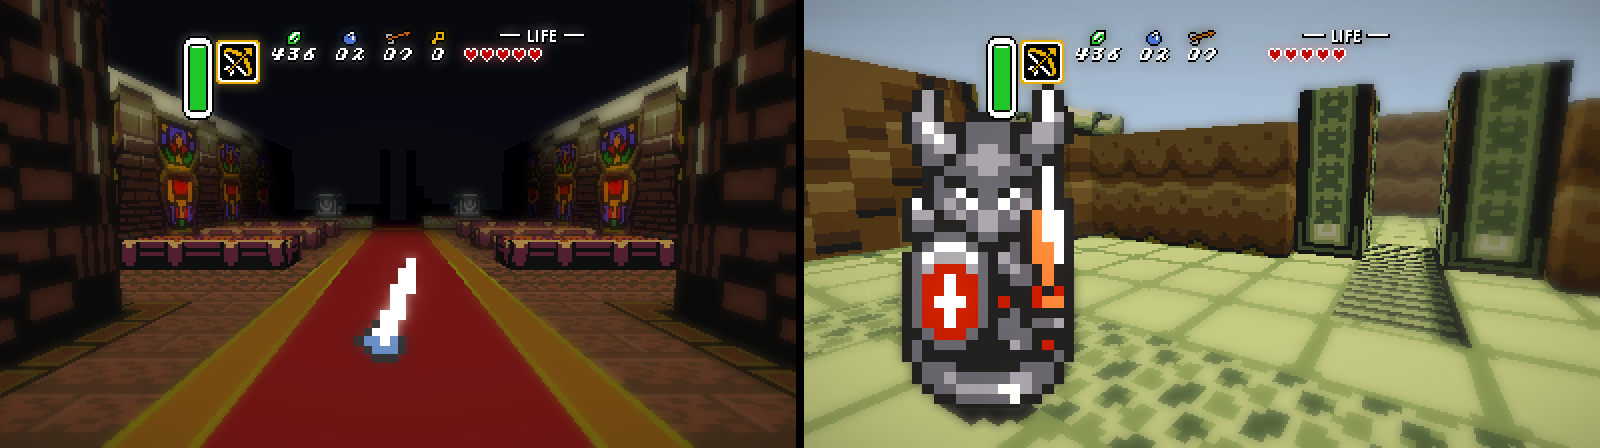
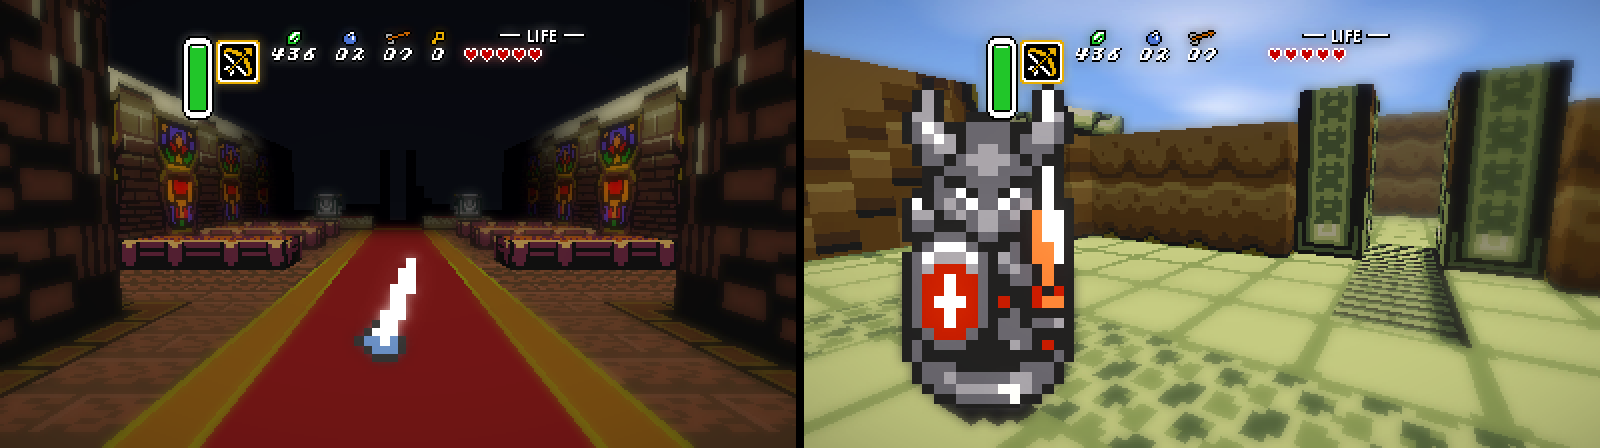
3D view: a sky outdoors
Where rays miss the ground outdoors (first person, turned cameras looking
above the horizon) the view showed flat mist. Now a sky rises from the fog
at the horizon (so the far ground still runs into it) to a brighter zenith:
blue over the Light World, violet-red over the Dark World, grey over Death
Mountain. A soft band of value-noise clouds drifts on a plane above, by
the pane's ticks and a little with the camera; on Death Mountain the
game's own cloud overlay (its first tilemap screen, decoded in phase A)
drifts there instead. One table lookup and a bilinear noise sample per
sky pixel, no shared mutable state on the worker rows. Indoors and the
oblique test camera are unchanged. README: one sentence, and the
first-person screenshot regenerated (only its sky changed).

Claude-Session: https://claude.ai/code/session_01KrREN423JtkdBDBTRQRweK

Changed region(s): [[0.5, 0.0, 1.0, 0.3125]]

diff --git a/src/hd3d.c b/src/hd3d.c
@@ -82,6 +82,7 @@ typedef struct Pane {
   uint8 *layer2d;            // its layers (2: the HUD)
   uint32 *last;
   uint8 *overlay;            // the outdoor BG1 overlay as palette indices (allocated when one shows)
+  uint8 *clouds;             // its first 256x256 screen, unscrolled (Death Mountain's sky)
   Hd3dSpriteFrame *sf;
   // This frame, from phase A for phase B.
   bool pending;
@@ -111,6 +112,9 @@ typedef struct Pane {
   uint8 ov_mode;             // the outdoor overlay: 0 none, 1 above everything, 2 below (the background)
   bool ov_sub, ov_half, ov_obj;
   uint32 ov_fixed;           // the fixed color (where the overlay is see-through)
+  bool sky;                  // outdoors: a sky where the ground ends
+  uint32 sky_mid, sky_top, cloud_rgb;  // (lit; the horizon is the fog)
+  int cloud_x, cloud_y;      // Death Mountain: the overlay's scroll (its drift)
 } Pane;
 
 static Pane g_panes[kHd3dMaxPanes];
@@ -277,7 +281,9 @@ static bool AllocPane(Pane *p, bool overlay) {
     p->sf = (Hd3dSpriteFrame *)calloc(1, sizeof(Hd3dSpriteFrame));
   if (overlay && !p->overlay)
     p->overlay = (uint8 *)malloc(kPicPixels);
-  return p->pic2d && p->layer2d && p->last && p->sf && (!overlay || p->overlay);
+  if (overlay && !p->clouds)
+    p->clouds = (uint8 *)malloc(256 * 256);
+  return p->pic2d && p->layer2d && p->last && p->sf && (!overlay || (p->overlay && p->clouds));
 }
 
 // ---- Phase A: reading the world ----
@@ -359,19 +365,19 @@ static void FrameHook(struct Ppu *ppu) {
     Hd3dSprites_Capture(ppu, g_capture);
 }
 
-// The outdoor BG1 overlay (fog, rain, canopy, clouds) exactly where the 2D
-// picture has it: it is anchored to the screen, not the world.
-static void DecodeOverlay(const Ppu *ppu, uint8 *out, int w, int h) {
+// The outdoor BG1 overlay (fog, rain, canopy, clouds) from tilemap pixel
+// (x0, y0) on: at its scroll it is exactly where the 2D picture has it,
+// anchored to the screen, not the world.
+static void DecodeOverlay(const Ppu *ppu, uint8 *out, int pitch, int x0, int y0, int w, int h) {
   const BgLayer *bg = &ppu->bgLayer[0];
-  int e = ppu->extraLeftRight;
   for (int r = 0; r < h; r++) {
-    uint8 *dst = out + r * kPicW;
-    int y = bg->vScroll + r + 1;
+    uint8 *dst = out + r * pitch;
+    int y = y0 + r;
     int sc = bg->tilemapAdr + (((y >> 3) & 0x1f) << 5);
     if ((y & 0x100) && bg->tilemapHigher)
       sc += bg->tilemapWider ? 0x800 : 0x400;
     for (int d = 0; d < w;) {
-      int x = (bg->hScroll + d - e) & 0x1ff;
+      int x = (x0 + d) & 0x1ff;
       int half = (x >> 8 & 1) && bg->tilemapWider ? 0x400 : 0;
       uint16 tile = ppu->vram[(sc + half + ((x >> 3) & 0x1f)) & 0x7fff];
       int row = tile & 0x8000 ? 7 - (y & 7) : y & 7;
@@ -460,12 +466,34 @@ static void ReadOverlay(Pane *p, const Ppu *ppu, uint8 mode) {
   p->ov_mode = mode;
   if (!mode)
     return;
-  DecodeOverlay(ppu, p->overlay, p->w, p->h);
+  const BgLayer *bg = &ppu->bgLayer[0];
+  DecodeOverlay(ppu, p->overlay, kPicW, bg->hScroll - ppu->extraLeftRight, bg->vScroll + 1, p->w, p->h);
+  // (Under everything it is Death Mountain's clouds: its sky's too.)
+  if (mode == 2)
+    DecodeOverlay(ppu, p->clouds, 256, 0, 0, 256, 256);
+  p->cloud_x = bg->hScroll, p->cloud_y = bg->vScroll;
   p->ov_sub = ppu->subtractColor;
   p->ov_half = ppu->halfColor;
   p->ov_obj = (ppu->mathEnabled & 0x10) != 0;
   uint16 fixed = (uint16)(ppu->fixedColorR | ppu->fixedColorG << 5 | ppu->fixedColorB << 10);
   p->ov_fixed = Rgb555(fixed, ppu->brightness & 15);
+}
+
+// The sky outdoors, from the fog at the horizon up: blue over the Light
+// World, violet-red over the Dark World, grey over Death Mountain (whose
+// own clouds drift in it). Indoors the fog goes on (a dark void).
+static void ReadSky(Pane *p, const Ppu *ppu) {
+  p->sky = !player_is_indoors;
+  int br = ppu->brightness & 15;
+  uint32 mid, top, cloud;
+  if (p->ov_mode == 2)
+    mid = 0xa0a8b8, top = 0x707c94, cloud = 0xd8dce4;
+  else if (overworld_screen_index & 0x40)
+    mid = 0x9c5c7c, top = 0x482858, cloud = 0xe0b0c0;
+  else
+    mid = 0x88b4ec, top = 0x3c74d4, cloud = 0xf4f8fc;
+  p->sky_mid = ScaleRgb(mid, br, 15), p->sky_top = ScaleRgb(top, br, 15);
+  p->cloud_rgb = ScaleRgb(cloud, br, 15);
 }
 
 static void SmoothTo(float *v, float to, float dt, float tau, bool snap) {
@@ -607,6 +635,7 @@ static void ReadWorld(Pane *p, uint32 flags, int step, bool same_world, Hd3dScen
     p->bg_lut[i] = Rgb555(ppu->cgram[i], br);
   ReadLight(p, ppu, (int)p->tz);
   ReadOverlay(p, ppu, ov_mode);
+  ReadSky(p, ppu);
   uint8 m = main_module_index;
   if (m == 14)
     m = saved_module_for_menu;
@@ -637,17 +666,89 @@ static uint32 OverlayMath(const Pane *p, uint32 c, uint8 idx) {
   return (uint32)(r << 16 | g << 8 | b);
 }
 
+enum {
+  kSkySteps = 64,            // the sky's colors by the sine of the elevation
+  kNoiseSize = 64,           // the clouds' noise (tiles)
+};
+
 typedef struct BackgroundJob {
   const Pane *p;
   const R3dFrame *f;
-  float horizon, top;        // the sky: a little darker at the top, down to the horizon row
+  float horizon, top;        // indoors: a little darker at the top, down to the horizon row
   uint32 ground;             // the ground's color near the camera
+  uint32 sky[kSkySteps];     // outdoors: the sky, and how much cloud shows, by elevation
+  uint8 cloud[kSkySteps];
+  float cloud_u, cloud_v;    // where the clouds have drifted (noise texels)
 } BackgroundJob;
+
+static uint8 g_noise[kNoiseSize * kNoiseSize];
+
+static uint32 Hash32(uint32 x) {
+  x ^= x >> 16, x *= 0x7feb352d, x ^= x >> 15, x *= 0x846ca68b, x ^= x >> 16;
+  return x;
+}
+
+// Soft tiling value noise in three octaves: the clouds' shapes. Made once,
+// on the main thread, before any rows run.
+static void MakeNoise(void) {
+  static bool done;
+  if (done)
+    return;
+  done = true;
+  for (int y = 0; y < kNoiseSize; y++) {
+    for (int x = 0; x < kNoiseSize; x++) {
+      float v = 0.0f, amp = 0.55f;
+      for (int o = 0, cell = 16; o < 3; o++, cell >>= 1, amp *= 0.5f) {
+        int n = kNoiseSize / cell, cx = x / cell, cy = y / cell;
+        float fx = (float)(x % cell) / cell, fy = (float)(y % cell) / cell;
+        fx = fx * fx * (3.0f - 2.0f * fx), fy = fy * fy * (3.0f - 2.0f * fy);
+        float c[4];
+        for (int i = 0; i < 4; i++) {
+          uint32 h = Hash32((uint32)(((cy + (i >> 1)) % n) * 64 + (cx + (i & 1)) % n) + (uint32)o * 4096u);
+          c[i] = (float)(h & 0xffff) / 65535.0f;
+        }
+        v += amp * (c[0] + (c[1] - c[0]) * fx + (c[2] - c[0] + (c[3] - c[2] - c[1] + c[0]) * fx) * fy);
+      }
+      g_noise[y * kNoiseSize + x] = (uint8)(Clampf(v, 0.0f, 1.0f) * 255.0f);
+    }
+  }
+}
+
+// The sky along a ray going up (dz > 0): the color for its elevation, then
+// the clouds, on a plane above, so they shrink toward the horizon.
+static uint32 SkyAt(const BackgroundJob *j, float dx, float dy, float dz) {
+  float e = dz / sqrtf(dx * dx + dy * dy + dz * dz);
+  int i = (int)(e * (kSkySteps - 1) + 0.5f);
+  i = i < 0 ? 0 : i >= kSkySteps ? kSkySteps - 1 : i;
+  uint32 c = j->sky[i];
+  if (!j->cloud[i])
+    return c;
+  const Pane *p = j->p;
+  float s = 1.0f / dz;
+  if (p->ov_mode == 2) {
+    // Death Mountain: the game's own clouds, pixel for pixel.
+    int u = (int)(dx * s * 96.0f + 4096.0f) + p->cloud_x, v = (int)(dy * s * 96.0f + 4096.0f) + p->cloud_y;
+    uint8 idx = p->clouds[(v & 255) * 256 + (u & 255)];
+    return idx ? LerpRgb(c, OverlayMath(p, c, idx), j->cloud[i] * (1.0f / 255.0f)) : c;
+  }
+  // (8 bits of fraction, wrapped: bilinear on the tiling noise.)
+  int u = (int)((dx * s * 6.0f + j->cloud_u) * 256.0f), v = (int)((dy * s * 6.0f + j->cloud_v) * 256.0f);
+  int x0 = u >> 8 & (kNoiseSize - 1), y0 = v >> 8 & (kNoiseSize - 1), fx = u & 255, fy = v & 255;
+  int x1 = (x0 + 1) & (kNoiseSize - 1), y1 = (y0 + 1) & (kNoiseSize - 1);
+  const uint8 *r0 = g_noise + y0 * kNoiseSize, *r1 = g_noise + y1 * kNoiseSize;
+  int a = r0[x0] * 256 + (r0[x1] - r0[x0]) * fx, b = r1[x0] * 256 + (r1[x1] - r1[x0]) * fx;
+  int n = (a * 256 + (b - a) * fy) >> 16;
+  int k = (n - 108) * 3;  // (only the noise's peaks are clouds, with soft edges)
+  if (k <= 0)
+    return c;
+  k = (k > 255 ? 255 : k) * j->cloud[i] >> 8;
+  return LerpRgb(c, p->cloud_rgb, k * (1.0f / 256.0f));
+}
 
 // What shows where nothing is drawn. Below the horizon it is the ground: the
 // backdrop color (the game's own ground wherever a background tile is
 // see-through, as outdoors at Skull Woods), fogged as the ground there would
-// be. Above it, the fog, or in first person the sky.
+// be. Above it, outdoors, the sky; indoors the fog.
 static void BackgroundRows(int y0, int y1, void *ctx) {
   const BackgroundJob *j = (const BackgroundJob *)ctx;
   const Pane *p = j->p;
@@ -668,7 +769,7 @@ static void BackgroundRows(int y0, int y1, void *ctx) {
       float dx = ry[0] + c->right[0] * vx, dy = ry[1] + c->right[1] * vx, dz = ry[2] + c->right[2] * vx;
       float t = dz < -1e-6f ? -c->eye[2] / dz : -1.0f;  // (where the ray meets z = 0)
       if (!(t > 0.0f && t < 1e6f)) {
-        row[x] = sky;
+        row[x] = !p->sky ? sky : dz > 0.0f ? SkyAt(j, dx, dy, dz) : j->sky[0];
         continue;
       }
       float gx = c->eye[0] + t * dx, gy = c->eye[1] + t * dy;
@@ -702,6 +803,21 @@ static void MakeBackground(const Pane *p, const R3dFrame *f, float b) {
   j.top = 1.0f - 0.15f * Clampf(b, 0.0f, 1.0f);
   // (Indoors in first person no ground goes on past the room: it is the fog.)
   j.ground = p->info.indoors ? LerpRgb(p->backdrop, f->fog_rgb, Clampf(b, 0.0f, 1.0f)) : p->backdrop;
+  if (p->sky) {
+    // From the fog at the horizon (so the far ground runs into it) to the
+    // zenith; the clouds in a band above the horizon's haze.
+    MakeNoise();
+    for (int i = 0; i < kSkySteps; i++) {
+      float e = (float)i / (kSkySteps - 1);
+      j.sky[i] = e < 0.16f ? LerpRgb(f->fog_rgb, p->sky_mid, SmoothStep(0.0f, 0.16f, e))
+                           : LerpRgb(p->sky_mid, p->sky_top, SmoothStep(0.16f, 0.7f, e));
+      j.cloud[i] = (uint8)(255.0f * SmoothStep(0.03f, 0.12f, e) * (1.0f - 0.6f * SmoothStep(0.25f, 0.7f, e)));
+    }
+    // (The pane's clock: a drift as slow as real clouds, and a little
+    // parallax as the camera walks.)
+    j.cloud_u = (float)(p->ticks % (kNoiseSize * 300u)) / 300.0f + cam->eye[0] * (1.0f / 512.0f);
+    j.cloud_v = cam->eye[1] * (1.0f / 512.0f);
+  }
   Hd2d_ParallelFor(p->h, BackgroundRows, &j);
 }
 

diff --git a/README.md b/README.md
@@ -470,7 +470,9 @@ of field from the real depth, bloom, color grade and the 2D-HD lighting.
 - **Faithful by default.** The game only runs what is on its own screen (and
   a little around it): enemies further away don't exist. So the world
   fades into mist where the original screen ends, a little further in first
-  person. Dark rooms stay as dark as in the original (pitch black without
+  person. Outdoors a sky rises out of that mist, with slow drifting clouds:
+  blue over the Light World, violet-red over the Dark World and grey over
+  Death Mountain, where the game's own clouds drift in it. Dark rooms stay as dark as in the original (pitch black without
   the Lamp), or are lit by the 2D-HD lighting when that is on.
 - **What stays 2D.** The item menu, the maps, the title and file select,
   the world map, game over, and moments the game draws with special screen
